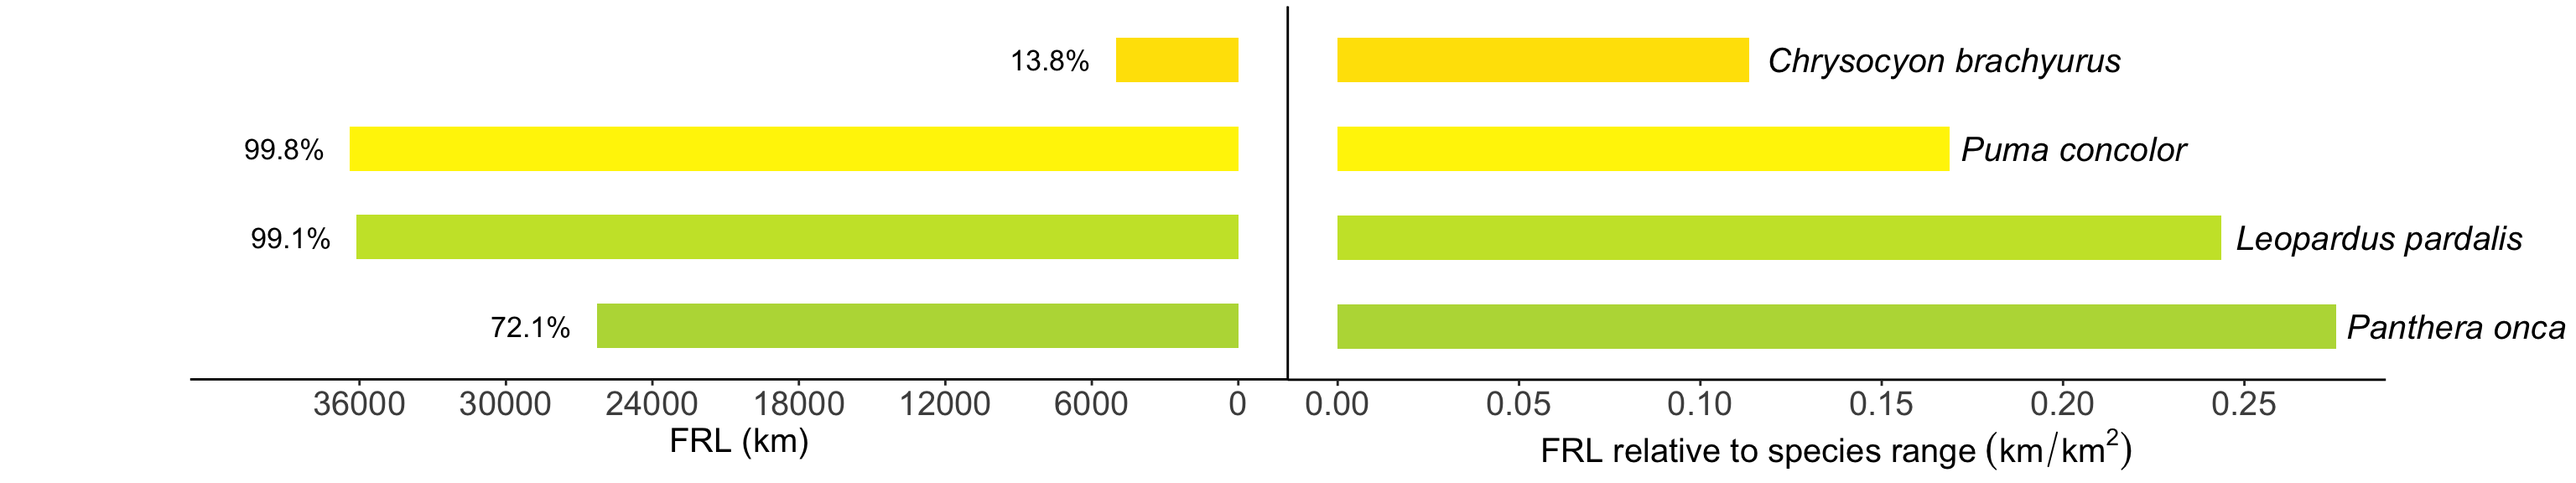
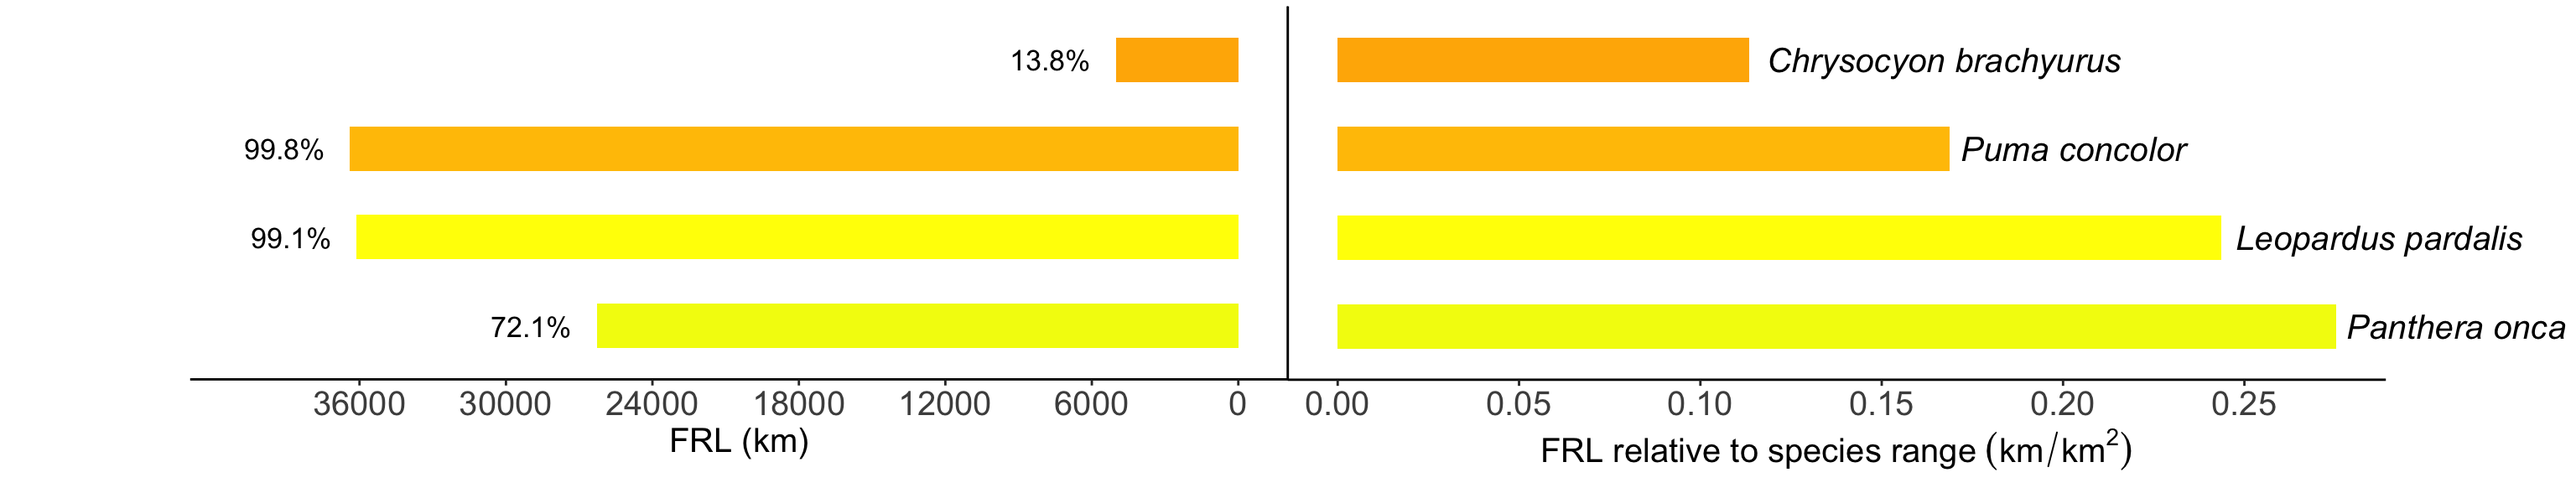
20210829

diff --git a/docs/index.html b/docs/index.html
@@ -392,149 +392,6 @@ div.tocify {
 <div id="sum" class="section level3">
 <h3>sum</h3>
 <p><img src="index_files/figure-html/unnamed-chunk-3-1.png" width="672" /></p>
-<pre><code>##    [1] &quot;#FCFFC9&quot; &quot;#FCFFC8&quot; &quot;#FCFFC8&quot; &quot;#FBFFC7&quot; &quot;#FBFFC7&quot; &quot;#FBFFC7&quot; &quot;#FBFFC6&quot;
-##    [8] &quot;#FBFFC6&quot; &quot;#FBFFC5&quot; &quot;#FBFFC5&quot; &quot;#FBFEC5&quot; &quot;#FBFEC4&quot; &quot;#FAFEC4&quot; &quot;#FAFEC4&quot;
-##   [15] &quot;#FAFDC3&quot; &quot;#FAFDC3&quot; &quot;#FAFDC2&quot; &quot;#FAFDC2&quot; &quot;#FAFCC2&quot; &quot;#FAFCC1&quot; &quot;#FAFCC1&quot;
-##   [22] &quot;#F9FCC0&quot; &quot;#F9FBC0&quot; &quot;#F9FBC0&quot; &quot;#F9FBBF&quot; &quot;#F9FBBF&quot; &quot;#F9FABE&quot; &quot;#F9FABE&quot;
-##   [29] &quot;#F9FABE&quot; &quot;#F9FABD&quot; &quot;#F8FABD&quot; &quot;#F8F9BD&quot; &quot;#F8F9BC&quot; &quot;#F8F9BC&quot; &quot;#F8F9BB&quot;
-##   [36] &quot;#F8F8BB&quot; &quot;#F8F8BB&quot; &quot;#F8F8BA&quot; &quot;#F8F8BA&quot; &quot;#F8F7B9&quot; &quot;#F7F7B9&quot; &quot;#F7F7B9&quot;
-##   [43] &quot;#F7F7B8&quot; &quot;#F7F6B8&quot; &quot;#F7F6B8&quot; &quot;#F7F6B7&quot; &quot;#F7F6B7&quot; &quot;#F7F5B6&quot; &quot;#F7F5B6&quot;
-##   [50] &quot;#F7F5B6&quot; &quot;#F6F5B5&quot; &quot;#F6F4B5&quot; &quot;#F6F4B4&quot; &quot;#F6F4B4&quot; &quot;#F6F4B4&quot; &quot;#F6F3B3&quot;
-##   [57] &quot;#F6F3B3&quot; &quot;#F6F3B2&quot; &quot;#F6F3B2&quot; &quot;#F6F2B2&quot; &quot;#F6F2B1&quot; &quot;#F5F2B1&quot; &quot;#F5F2B1&quot;
-##   [64] &quot;#F5F2B0&quot; &quot;#F5F1B0&quot; &quot;#F5F1AF&quot; &quot;#F5F1AF&quot; &quot;#F5F1AF&quot; &quot;#F5F0AE&quot; &quot;#F5F0AE&quot;
-##   [71] &quot;#F5F0AD&quot; &quot;#F5F0AD&quot; &quot;#F4EFAD&quot; &quot;#F4EFAC&quot; &quot;#F4EFAC&quot; &quot;#F4EFAB&quot; &quot;#F4EEAB&quot;
-##   [78] &quot;#F4EEAB&quot; &quot;#F4EEAA&quot; &quot;#F4EEAA&quot; &quot;#F4EDAA&quot; &quot;#F4EDA9&quot; &quot;#F4EDA9&quot; &quot;#F3EDA8&quot;
-##   [85] &quot;#F3ECA8&quot; &quot;#F3ECA8&quot; &quot;#F3ECA7&quot; &quot;#F3ECA7&quot; &quot;#F3EBA6&quot; &quot;#F3EBA6&quot; &quot;#F3EBA6&quot;
-##   [92] &quot;#F3EBA5&quot; &quot;#F3EAA5&quot; &quot;#F3EAA4&quot; &quot;#F3EAA4&quot; &quot;#F2EAA4&quot; &quot;#F2E9A3&quot; &quot;#F2E9A3&quot;
-##   [99] &quot;#F2E9A2&quot; &quot;#F2E9A2&quot; &quot;#F2E8A2&quot; &quot;#F2E8A1&quot; &quot;#F2E8A1&quot; &quot;#F2E8A1&quot; &quot;#F2E7A0&quot;
-##  [106] &quot;#F2E7A0&quot; &quot;#F2E79F&quot; &quot;#F2E79F&quot; &quot;#F1E69F&quot; &quot;#F1E69E&quot; &quot;#F1E69E&quot; &quot;#F1E69D&quot;
-##  [113] &quot;#F1E59D&quot; &quot;#F1E59D&quot; &quot;#F1E59C&quot; &quot;#F1E59C&quot; &quot;#F1E49B&quot; &quot;#F1E49B&quot; &quot;#F1E49B&quot;
-##  [120] &quot;#F1E39A&quot; &quot;#F0E39A&quot; &quot;#F0E39A&quot; &quot;#F0E399&quot; &quot;#F0E299&quot; &quot;#F0E298&quot; &quot;#F0E298&quot;
-##  [127] &quot;#F0E298&quot; &quot;#F0E197&quot; &quot;#F0E197&quot; &quot;#F0E196&quot; &quot;#F0E196&quot; &quot;#F0E096&quot; &quot;#F0E095&quot;
-##  [134] &quot;#F0E095&quot; &quot;#EFE094&quot; &quot;#EFDF94&quot; &quot;#EFDF94&quot; &quot;#EFDF93&quot; &quot;#EFDF93&quot; &quot;#EFDE92&quot;
-##  [141] &quot;#EFDE92&quot; &quot;#EFDE92&quot; &quot;#EFDE91&quot; &quot;#EFDD91&quot; &quot;#EFDD91&quot; &quot;#EFDD90&quot; &quot;#EFDD90&quot;
-##  [148] &quot;#EFDC8F&quot; &quot;#EEDC8F&quot; &quot;#EEDC8F&quot; &quot;#EEDB8E&quot; &quot;#EEDB8E&quot; &quot;#EEDB8D&quot; &quot;#EEDB8D&quot;
-##  [155] &quot;#EEDA8D&quot; &quot;#EEDA8C&quot; &quot;#EEDA8C&quot; &quot;#EEDA8B&quot; &quot;#EED98B&quot; &quot;#EED98B&quot; &quot;#EED98A&quot;
-##  [162] &quot;#EED98A&quot; &quot;#EDD889&quot; &quot;#EDD889&quot; &quot;#EDD889&quot; &quot;#EDD888&quot; &quot;#EDD788&quot; &quot;#EDD787&quot;
-##  [169] &quot;#EDD787&quot; &quot;#EDD787&quot; &quot;#EDD686&quot; &quot;#EDD686&quot; &quot;#EDD686&quot; &quot;#EDD585&quot; &quot;#EDD585&quot;
-##  [176] &quot;#EDD584&quot; &quot;#EDD584&quot; &quot;#ECD484&quot; &quot;#ECD483&quot; &quot;#ECD483&quot; &quot;#ECD482&quot; &quot;#ECD382&quot;
-##  [183] &quot;#ECD382&quot; &quot;#ECD381&quot; &quot;#ECD381&quot; &quot;#ECD280&quot; &quot;#ECD280&quot; &quot;#ECD280&quot; &quot;#ECD17F&quot;
-##  [190] &quot;#ECD17F&quot; &quot;#ECD17E&quot; &quot;#ECD17E&quot; &quot;#ECD07E&quot; &quot;#EBD07D&quot; &quot;#EBD07D&quot; &quot;#EBD07D&quot;
-##  [197] &quot;#EBCF7C&quot; &quot;#EBCF7C&quot; &quot;#EBCF7B&quot; &quot;#EBCF7B&quot; &quot;#EBCE7B&quot; &quot;#EBCE7A&quot; &quot;#EBCE7A&quot;
-##  [204] &quot;#EBCD79&quot; &quot;#EBCD79&quot; &quot;#EBCD79&quot; &quot;#EBCD78&quot; &quot;#EBCC78&quot; &quot;#EBCC77&quot; &quot;#EACC77&quot;
-##  [211] &quot;#EACC77&quot; &quot;#EACB76&quot; &quot;#EACB76&quot; &quot;#EACB75&quot; &quot;#EACA75&quot; &quot;#EACA75&quot; &quot;#EACA74&quot;
-##  [218] &quot;#EACA74&quot; &quot;#EAC973&quot; &quot;#EAC973&quot; &quot;#EAC973&quot; &quot;#EAC972&quot; &quot;#EAC872&quot; &quot;#EAC872&quot;
-##  [225] &quot;#EAC871&quot; &quot;#E9C871&quot; &quot;#E9C770&quot; &quot;#E9C770&quot; &quot;#E9C770&quot; &quot;#E9C66F&quot; &quot;#E9C66F&quot;
-##  [232] &quot;#E9C66E&quot; &quot;#E9C66E&quot; &quot;#E9C56E&quot; &quot;#E9C56D&quot; &quot;#E9C56D&quot; &quot;#E9C46C&quot; &quot;#E9C46C&quot;
-##  [239] &quot;#E9C46C&quot; &quot;#E9C46B&quot; &quot;#E9C36B&quot; &quot;#E9C36A&quot; &quot;#E8C36A&quot; &quot;#E8C36A&quot; &quot;#E8C269&quot;
-##  [246] &quot;#E8C269&quot; &quot;#E8C268&quot; &quot;#E8C168&quot; &quot;#E8C168&quot; &quot;#E8C167&quot; &quot;#E8C167&quot; &quot;#E8C066&quot;
-##  [253] &quot;#E8C066&quot; &quot;#E8C066&quot; &quot;#E8C065&quot; &quot;#E8BF65&quot; &quot;#E8BF65&quot; &quot;#E8BF64&quot; &quot;#E7BE64&quot;
-##  [260] &quot;#E7BE63&quot; &quot;#E7BE63&quot; &quot;#E7BE63&quot; &quot;#E7BD62&quot; &quot;#E7BD62&quot; &quot;#E7BD61&quot; &quot;#E7BC61&quot;
-##  [267] &quot;#E7BC61&quot; &quot;#E7BC60&quot; &quot;#E7BC60&quot; &quot;#E7BB5F&quot; &quot;#E7BB5F&quot; &quot;#E7BB5F&quot; &quot;#E7BA5E&quot;
-##  [274] &quot;#E7BA5E&quot; &quot;#E7BA5D&quot; &quot;#E6BA5D&quot; &quot;#E6B95D&quot; &quot;#E6B95C&quot; &quot;#E6B95C&quot; &quot;#E6B95B&quot;
-##  [281] &quot;#E6B85B&quot; &quot;#E6B85B&quot; &quot;#E6B85A&quot; &quot;#E6B75A&quot; &quot;#E6B759&quot; &quot;#E6B759&quot; &quot;#E6B759&quot;
-##  [288] &quot;#E6B658&quot; &quot;#E6B658&quot; &quot;#E6B657&quot; &quot;#E6B557&quot; &quot;#E6B557&quot; &quot;#E5B556&quot; &quot;#E5B556&quot;
-##  [295] &quot;#E5B455&quot; &quot;#E5B455&quot; &quot;#E5B455&quot; &quot;#E5B354&quot; &quot;#E5B354&quot; &quot;#E5B353&quot; &quot;#E5B353&quot;
-##  [302] &quot;#E5B253&quot; &quot;#E5B252&quot; &quot;#E5B252&quot; &quot;#E5B151&quot; &quot;#E5B151&quot; &quot;#E5B151&quot; &quot;#E5B150&quot;
-##  [309] &quot;#E4B050&quot; &quot;#E4B04F&quot; &quot;#E4B04F&quot; &quot;#E4AF4F&quot; &quot;#E4AF4E&quot; &quot;#E4AF4E&quot; &quot;#E4AF4D&quot;
-##  [316] &quot;#E4AE4D&quot; &quot;#E4AE4D&quot; &quot;#E4AE4C&quot; &quot;#E4AD4C&quot; &quot;#E4AD4B&quot; &quot;#E4AD4B&quot; &quot;#E4AD4B&quot;
-##  [323] &quot;#E4AC4A&quot; &quot;#E4AC4A&quot; &quot;#E3AC49&quot; &quot;#E3AB49&quot; &quot;#E3AB49&quot; &quot;#E3AB48&quot; &quot;#E3AA48&quot;
-##  [330] &quot;#E3AA47&quot; &quot;#E3AA47&quot; &quot;#E3AA47&quot; &quot;#E3A946&quot; &quot;#E3A946&quot; &quot;#E3A945&quot; &quot;#E3A845&quot;
-##  [337] &quot;#E3A845&quot; &quot;#E3A844&quot; &quot;#E3A844&quot; &quot;#E3A743&quot; &quot;#E2A743&quot; &quot;#E2A743&quot; &quot;#E2A642&quot;
-##  [344] &quot;#E2A642&quot; &quot;#E2A641&quot; &quot;#E2A641&quot; &quot;#E2A540&quot; &quot;#E2A540&quot; &quot;#E2A540&quot; &quot;#E2A43F&quot;
-##  [351] &quot;#E2A43F&quot; &quot;#E2A43E&quot; &quot;#E2A33E&quot; &quot;#E2A33E&quot; &quot;#E2A33D&quot; &quot;#E2A33D&quot; &quot;#E1A23C&quot;
-##  [358] &quot;#E1A23C&quot; &quot;#E1A23C&quot; &quot;#E1A13B&quot; &quot;#E1A13B&quot; &quot;#E1A13A&quot; &quot;#E1A03A&quot; &quot;#E1A039&quot;
-##  [365] &quot;#E1A039&quot; &quot;#E1A039&quot; &quot;#E19F38&quot; &quot;#E19F38&quot; &quot;#E19F37&quot; &quot;#E19E37&quot; &quot;#E09E36&quot;
-##  [372] &quot;#E09E36&quot; &quot;#E09D36&quot; &quot;#E09D35&quot; &quot;#E09D35&quot; &quot;#E09D34&quot; &quot;#E09C34&quot; &quot;#E09C33&quot;
-##  [379] &quot;#E09C33&quot; &quot;#E09B33&quot; &quot;#E09B32&quot; &quot;#E09B32&quot; &quot;#E09A31&quot; &quot;#E09A31&quot; &quot;#E09A30&quot;
-##  [386] &quot;#DF9A30&quot; &quot;#DF9930&quot; &quot;#DF992F&quot; &quot;#DF992F&quot; &quot;#DF982E&quot; &quot;#DF982E&quot; &quot;#DF982D&quot;
-##  [393] &quot;#DF972D&quot; &quot;#DF972D&quot; &quot;#DF972C&quot; &quot;#DF972C&quot; &quot;#DF962B&quot; &quot;#DF962B&quot; &quot;#DF962A&quot;
-##  [400] &quot;#DE952A&quot; &quot;#DE9529&quot; &quot;#DE9529&quot; &quot;#DE9428&quot; &quot;#DE9428&quot; &quot;#DE9428&quot; &quot;#DE9327&quot;
-##  [407] &quot;#DE9327&quot; &quot;#DE9326&quot; &quot;#DE9326&quot; &quot;#DE9225&quot; &quot;#DE9225&quot; &quot;#DE9224&quot; &quot;#DE9124&quot;
-##  [414] &quot;#DD9123&quot; &quot;#DD9123&quot; &quot;#DD9022&quot; &quot;#DD9022&quot; &quot;#DD9021&quot; &quot;#DD8F21&quot; &quot;#DD8F20&quot;
-##  [421] &quot;#DD8F20&quot; &quot;#DD8F1F&quot; &quot;#DD8E1F&quot; &quot;#DD8E1E&quot; &quot;#DD8E1E&quot; &quot;#DD8D1D&quot; &quot;#DC8D1D&quot;
-##  [428] &quot;#DC8D1C&quot; &quot;#DC8C1C&quot; &quot;#DC8C1B&quot; &quot;#DC8C1B&quot; &quot;#DC8B1A&quot; &quot;#DC8B1A&quot; &quot;#DC8B19&quot;
-##  [435] &quot;#DC8A18&quot; &quot;#DC8A18&quot; &quot;#DC8A17&quot; &quot;#DC8917&quot; &quot;#DC8916&quot; &quot;#DB8916&quot; &quot;#DB8915&quot;
-##  [442] &quot;#DB8814&quot; &quot;#DB8814&quot; &quot;#DB8813&quot; &quot;#DB8713&quot; &quot;#DB8712&quot; &quot;#DB8711&quot; &quot;#DB8611&quot;
-##  [449] &quot;#DB8610&quot; &quot;#DB860F&quot; &quot;#DB850E&quot; &quot;#DA850E&quot; &quot;#DA850D&quot; &quot;#DA840C&quot; &quot;#DA840B&quot;
-##  [456] &quot;#DA840B&quot; &quot;#DA830A&quot; &quot;#DA8309&quot; &quot;#DA8308&quot; &quot;#DA8207&quot; &quot;#DA8206&quot; &quot;#DA8206&quot;
-##  [463] &quot;#DA8205&quot; &quot;#DA8104&quot; &quot;#D98103&quot; &quot;#D98102&quot; &quot;#D98002&quot; &quot;#D98001&quot; &quot;#D98000&quot;
-##  [470] &quot;#D97F00&quot; &quot;#D97F00&quot; &quot;#D97F00&quot; &quot;#D97E00&quot; &quot;#D97E00&quot; &quot;#D97E00&quot; &quot;#D87D00&quot;
-##  [477] &quot;#D87D00&quot; &quot;#D87D00&quot; &quot;#D87C00&quot; &quot;#D87C00&quot; &quot;#D87C00&quot; &quot;#D87B00&quot; &quot;#D87B00&quot;
-##  [484] &quot;#D87B00&quot; &quot;#D87A00&quot; &quot;#D87A00&quot; &quot;#D87A00&quot; &quot;#D77900&quot; &quot;#D77900&quot; &quot;#D77900&quot;
-##  [491] &quot;#D77800&quot; &quot;#D77800&quot; &quot;#D77800&quot; &quot;#D77700&quot; &quot;#D77700&quot; &quot;#D77700&quot; &quot;#D77600&quot;
-##  [498] &quot;#D77600&quot; &quot;#D67600&quot; &quot;#D67500&quot; &quot;#D67500&quot; &quot;#D67500&quot; &quot;#D67400&quot; &quot;#D67400&quot;
-##  [505] &quot;#D67400&quot; &quot;#D67300&quot; &quot;#D57300&quot; &quot;#D57300&quot; &quot;#D57300&quot; &quot;#D57200&quot; &quot;#D47200&quot;
-##  [512] &quot;#D47200&quot; &quot;#D47200&quot; &quot;#D47100&quot; &quot;#D47100&quot; &quot;#D37100&quot; &quot;#D37000&quot; &quot;#D37002&quot;
-##  [519] &quot;#D37003&quot; &quot;#D27005&quot; &quot;#D26F06&quot; &quot;#D26F08&quot; &quot;#D26F09&quot; &quot;#D16F0B&quot; &quot;#D16E0C&quot;
-##  [526] &quot;#D16E0E&quot; &quot;#D16E0F&quot; &quot;#D06D10&quot; &quot;#D06D11&quot; &quot;#D06D12&quot; &quot;#D06D13&quot; &quot;#D06C14&quot;
-##  [533] &quot;#CF6C15&quot; &quot;#CF6C16&quot; &quot;#CF6C16&quot; &quot;#CF6B17&quot; &quot;#CE6B18&quot; &quot;#CE6B19&quot; &quot;#CE6B19&quot;
-##  [540] &quot;#CE6A1A&quot; &quot;#CD6A1B&quot; &quot;#CD6A1B&quot; &quot;#CD691C&quot; &quot;#CD691D&quot; &quot;#CC691D&quot; &quot;#CC691E&quot;
-##  [547] &quot;#CC681E&quot; &quot;#CC681F&quot; &quot;#CB6820&quot; &quot;#CB6820&quot; &quot;#CB6721&quot; &quot;#CB6721&quot; &quot;#CA6722&quot;
-##  [554] &quot;#CA6722&quot; &quot;#CA6623&quot; &quot;#CA6623&quot; &quot;#C96624&quot; &quot;#C96624&quot; &quot;#C96524&quot; &quot;#C96525&quot;
-##  [561] &quot;#C86525&quot; &quot;#C86426&quot; &quot;#C86426&quot; &quot;#C86427&quot; &quot;#C76427&quot; &quot;#C76327&quot; &quot;#C76328&quot;
-##  [568] &quot;#C76328&quot; &quot;#C66329&quot; &quot;#C66229&quot; &quot;#C66229&quot; &quot;#C6622A&quot; &quot;#C5622A&quot; &quot;#C5612A&quot;
-##  [575] &quot;#C5612B&quot; &quot;#C5612B&quot; &quot;#C4612B&quot; &quot;#C4602C&quot; &quot;#C4602C&quot; &quot;#C4602C&quot; &quot;#C35F2D&quot;
-##  [582] &quot;#C35F2D&quot; &quot;#C35F2D&quot; &quot;#C35F2E&quot; &quot;#C25E2E&quot; &quot;#C25E2E&quot; &quot;#C25E2F&quot; &quot;#C15E2F&quot;
-##  [589] &quot;#C15D2F&quot; &quot;#C15D2F&quot; &quot;#C15D30&quot; &quot;#C05D30&quot; &quot;#C05C30&quot; &quot;#C05C31&quot; &quot;#C05C31&quot;
-##  [596] &quot;#BF5C31&quot; &quot;#BF5B31&quot; &quot;#BF5B32&quot; &quot;#BF5B32&quot; &quot;#BE5B32&quot; &quot;#BE5A32&quot; &quot;#BE5A33&quot;
-##  [603] &quot;#BD5A33&quot; &quot;#BD5A33&quot; &quot;#BD5933&quot; &quot;#BD5933&quot; &quot;#BC5934&quot; &quot;#BC5934&quot; &quot;#BC5834&quot;
-##  [610] &quot;#BC5834&quot; &quot;#BB5835&quot; &quot;#BB5835&quot; &quot;#BB5735&quot; &quot;#BA5735&quot; &quot;#BA5735&quot; &quot;#BA5736&quot;
-##  [617] &quot;#BA5636&quot; &quot;#B95636&quot; &quot;#B95636&quot; &quot;#B95536&quot; &quot;#B95537&quot; &quot;#B85537&quot; &quot;#B85537&quot;
-##  [624] &quot;#B85437&quot; &quot;#B75437&quot; &quot;#B75437&quot; &quot;#B75438&quot; &quot;#B75338&quot; &quot;#B65338&quot; &quot;#B65338&quot;
-##  [631] &quot;#B65338&quot; &quot;#B55238&quot; &quot;#B55239&quot; &quot;#B55239&quot; &quot;#B55239&quot; &quot;#B45139&quot; &quot;#B45139&quot;
-##  [638] &quot;#B45139&quot; &quot;#B3513A&quot; &quot;#B3503A&quot; &quot;#B3503A&quot; &quot;#B3503A&quot; &quot;#B2503A&quot; &quot;#B24F3A&quot;
-##  [645] &quot;#B24F3A&quot; &quot;#B14F3B&quot; &quot;#B14F3B&quot; &quot;#B14E3B&quot; &quot;#B14E3B&quot; &quot;#B04E3B&quot; &quot;#B04E3B&quot;
-##  [652] &quot;#B04E3B&quot; &quot;#AF4D3B&quot; &quot;#AF4D3C&quot; &quot;#AF4D3C&quot; &quot;#AF4D3C&quot; &quot;#AE4C3C&quot; &quot;#AE4C3C&quot;
-##  [659] &quot;#AE4C3C&quot; &quot;#AD4C3C&quot; &quot;#AD4B3C&quot; &quot;#AD4B3D&quot; &quot;#AC4B3D&quot; &quot;#AC4B3D&quot; &quot;#AC4A3D&quot;
-##  [666] &quot;#AC4A3D&quot; &quot;#AB4A3D&quot; &quot;#AB4A3D&quot; &quot;#AB493D&quot; &quot;#AA493D&quot; &quot;#AA493D&quot; &quot;#AA493E&quot;
-##  [673] &quot;#A9483E&quot; &quot;#A9483E&quot; &quot;#A9483E&quot; &quot;#A9483E&quot; &quot;#A8473E&quot; &quot;#A8473E&quot; &quot;#A8473E&quot;
-##  [680] &quot;#A7473E&quot; &quot;#A7463E&quot; &quot;#A7463E&quot; &quot;#A6463E&quot; &quot;#A6463E&quot; &quot;#A6453F&quot; &quot;#A6453F&quot;
-##  [687] &quot;#A5453F&quot; &quot;#A5453F&quot; &quot;#A5453F&quot; &quot;#A4443F&quot; &quot;#A4443F&quot; &quot;#A4443F&quot; &quot;#A3443F&quot;
-##  [694] &quot;#A3433F&quot; &quot;#A3433F&quot; &quot;#A2433F&quot; &quot;#A2433F&quot; &quot;#A2423F&quot; &quot;#A2423F&quot; &quot;#A1423F&quot;
-##  [701] &quot;#A14240&quot; &quot;#A14140&quot; &quot;#A04140&quot; &quot;#A04140&quot; &quot;#A04140&quot; &quot;#9F4040&quot; &quot;#9F4040&quot;
-##  [708] &quot;#9F4040&quot; &quot;#9E4040&quot; &quot;#9E4040&quot; &quot;#9E3F40&quot; &quot;#9D3F40&quot; &quot;#9D3F40&quot; &quot;#9D3F40&quot;
-##  [715] &quot;#9C3E40&quot; &quot;#9C3E40&quot; &quot;#9C3E40&quot; &quot;#9C3E40&quot; &quot;#9B3D40&quot; &quot;#9B3D40&quot; &quot;#9B3D40&quot;
-##  [722] &quot;#9A3D40&quot; &quot;#9A3C40&quot; &quot;#9A3C40&quot; &quot;#993C40&quot; &quot;#993C40&quot; &quot;#993C40&quot; &quot;#983B40&quot;
-##  [729] &quot;#983B40&quot; &quot;#983B40&quot; &quot;#973B40&quot; &quot;#973A40&quot; &quot;#973A40&quot; &quot;#963A40&quot; &quot;#963A41&quot;
-##  [736] &quot;#963941&quot; &quot;#953941&quot; &quot;#953941&quot; &quot;#953941&quot; &quot;#943941&quot; &quot;#943841&quot; &quot;#943841&quot;
-##  [743] &quot;#933841&quot; &quot;#933841&quot; &quot;#933741&quot; &quot;#923741&quot; &quot;#923741&quot; &quot;#923741&quot; &quot;#913741&quot;
-##  [750] &quot;#913640&quot; &quot;#913640&quot; &quot;#903640&quot; &quot;#903640&quot; &quot;#903540&quot; &quot;#8F3540&quot; &quot;#8F3540&quot;
-##  [757] &quot;#8F3540&quot; &quot;#8E3440&quot; &quot;#8E3440&quot; &quot;#8E3440&quot; &quot;#8D3440&quot; &quot;#8D3440&quot; &quot;#8D3340&quot;
-##  [764] &quot;#8C3340&quot; &quot;#8C3340&quot; &quot;#8C3340&quot; &quot;#8B3240&quot; &quot;#8B3240&quot; &quot;#8B3240&quot; &quot;#8A3240&quot;
-##  [771] &quot;#8A3240&quot; &quot;#8A3140&quot; &quot;#893140&quot; &quot;#893140&quot; &quot;#893140&quot; &quot;#883040&quot; &quot;#883040&quot;
-##  [778] &quot;#873040&quot; &quot;#873040&quot; &quot;#873040&quot; &quot;#862F40&quot; &quot;#862F40&quot; &quot;#862F40&quot; &quot;#852F40&quot;
-##  [785] &quot;#852E3F&quot; &quot;#852E3F&quot; &quot;#842E3F&quot; &quot;#842E3F&quot; &quot;#842E3F&quot; &quot;#832D3F&quot; &quot;#832D3F&quot;
-##  [792] &quot;#832D3F&quot; &quot;#822D3F&quot; &quot;#822D3F&quot; &quot;#822C3F&quot; &quot;#812C3F&quot; &quot;#812C3F&quot; &quot;#802C3F&quot;
-##  [799] &quot;#802B3F&quot; &quot;#802B3F&quot; &quot;#7F2B3F&quot; &quot;#7F2B3F&quot; &quot;#7F2B3E&quot; &quot;#7E2A3E&quot; &quot;#7E2A3E&quot;
-##  [806] &quot;#7E2A3E&quot; &quot;#7D2A3E&quot; &quot;#7D2A3E&quot; &quot;#7C293E&quot; &quot;#7C293E&quot; &quot;#7C293E&quot; &quot;#7B293E&quot;
-##  [813] &quot;#7B283E&quot; &quot;#7B283E&quot; &quot;#7A283E&quot; &quot;#7A283E&quot; &quot;#7A283D&quot; &quot;#79273D&quot; &quot;#79273D&quot;
-##  [820] &quot;#78273D&quot; &quot;#78273D&quot; &quot;#78273D&quot; &quot;#77263D&quot; &quot;#77263D&quot; &quot;#77263D&quot; &quot;#76263D&quot;
-##  [827] &quot;#76263D&quot; &quot;#76253C&quot; &quot;#75253C&quot; &quot;#75253C&quot; &quot;#74253C&quot; &quot;#74243C&quot; &quot;#74243C&quot;
-##  [834] &quot;#73243C&quot; &quot;#73243C&quot; &quot;#73243C&quot; &quot;#72233C&quot; &quot;#72233B&quot; &quot;#71233B&quot; &quot;#71233B&quot;
-##  [841] &quot;#71233B&quot; &quot;#70223B&quot; &quot;#70223B&quot; &quot;#70223B&quot; &quot;#6F223B&quot; &quot;#6F223B&quot; &quot;#6E213B&quot;
-##  [848] &quot;#6E213A&quot; &quot;#6E213A&quot; &quot;#6D213A&quot; &quot;#6D213A&quot; &quot;#6C203A&quot; &quot;#6C203A&quot; &quot;#6C203A&quot;
-##  [855] &quot;#6B203A&quot; &quot;#6B2039&quot; &quot;#6B1F39&quot; &quot;#6A1F39&quot; &quot;#6A1F39&quot; &quot;#691F39&quot; &quot;#691F39&quot;
-##  [862] &quot;#691E39&quot; &quot;#681E39&quot; &quot;#681E38&quot; &quot;#671E38&quot; &quot;#671E38&quot; &quot;#671D38&quot; &quot;#661D38&quot;
-##  [869] &quot;#661D38&quot; &quot;#651D38&quot; &quot;#651D38&quot; &quot;#651C37&quot; &quot;#641C37&quot; &quot;#641C37&quot; &quot;#631C37&quot;
-##  [876] &quot;#631C37&quot; &quot;#631B37&quot; &quot;#621B37&quot; &quot;#621B36&quot; &quot;#611B36&quot; &quot;#611B36&quot; &quot;#611B36&quot;
-##  [883] &quot;#601A36&quot; &quot;#601A36&quot; &quot;#5F1A35&quot; &quot;#5F1A35&quot; &quot;#5F1A35&quot; &quot;#5E1935&quot; &quot;#5E1935&quot;
-##  [890] &quot;#5D1935&quot; &quot;#5D1935&quot; &quot;#5D1934&quot; &quot;#5C1834&quot; &quot;#5C1834&quot; &quot;#5B1834&quot; &quot;#5B1834&quot;
-##  [897] &quot;#5A1834&quot; &quot;#5A1733&quot; &quot;#5A1733&quot; &quot;#591733&quot; &quot;#591733&quot; &quot;#581733&quot; &quot;#581732&quot;
-##  [904] &quot;#581632&quot; &quot;#571632&quot; &quot;#571632&quot; &quot;#561632&quot; &quot;#561632&quot; &quot;#551531&quot; &quot;#551531&quot;
-##  [911] &quot;#551531&quot; &quot;#541531&quot; &quot;#541531&quot; &quot;#531530&quot; &quot;#531430&quot; &quot;#521430&quot; &quot;#521430&quot;
-##  [918] &quot;#521430&quot; &quot;#511430&quot; &quot;#51142F&quot; &quot;#50132F&quot; &quot;#50132F&quot; &quot;#4F132F&quot; &quot;#4F132F&quot;
-##  [925] &quot;#4E132E&quot; &quot;#4E122E&quot; &quot;#4E122E&quot; &quot;#4D122E&quot; &quot;#4D122D&quot; &quot;#4C122D&quot; &quot;#4C122D&quot;
-##  [932] &quot;#4B112D&quot; &quot;#4B112D&quot; &quot;#4A112C&quot; &quot;#4A112C&quot; &quot;#4A112C&quot; &quot;#49112C&quot; &quot;#49102C&quot;
-##  [939] &quot;#48102B&quot; &quot;#48102B&quot; &quot;#47102B&quot; &quot;#47102B&quot; &quot;#46102A&quot; &quot;#460F2A&quot; &quot;#450F2A&quot;
-##  [946] &quot;#450F2A&quot; &quot;#440F29&quot; &quot;#440F29&quot; &quot;#430F29&quot; &quot;#430F29&quot; &quot;#420E28&quot; &quot;#420E28&quot;
-##  [953] &quot;#410E28&quot; &quot;#410E28&quot; &quot;#400E27&quot; &quot;#400E27&quot; &quot;#3F0E27&quot; &quot;#3F0D27&quot; &quot;#3E0D26&quot;
-##  [960] &quot;#3E0D26&quot; &quot;#3D0D26&quot; &quot;#3D0D26&quot; &quot;#3C0D25&quot; &quot;#3C0D25&quot; &quot;#3B0C25&quot; &quot;#3B0C24&quot;
-##  [967] &quot;#3A0C24&quot; &quot;#3A0C24&quot; &quot;#390C24&quot; &quot;#390C23&quot; &quot;#380C23&quot; &quot;#370C23&quot; &quot;#370B22&quot;
-##  [974] &quot;#360B22&quot; &quot;#360B22&quot; &quot;#350B21&quot; &quot;#350B21&quot; &quot;#340B21&quot; &quot;#330B20&quot; &quot;#330B20&quot;
-##  [981] &quot;#320B20&quot; &quot;#310B1F&quot; &quot;#310A1F&quot; &quot;#300A1F&quot; &quot;#300A1E&quot; &quot;#2F0A1E&quot; &quot;#2E0A1D&quot;
-##  [988] &quot;#2D0A1D&quot; &quot;#2D0A1D&quot; &quot;#2C0A1C&quot; &quot;#2B0A1C&quot; &quot;#2A0A1B&quot; &quot;#290A1B&quot; &quot;#280A1A&quot;
-##  [995] &quot;#270A1A&quot; &quot;#260A19&quot; &quot;#250A18&quot; &quot;#240A18&quot; &quot;#220A17&quot; &quot;#200A16&quot; &quot;#1D0B14&quot;</code></pre>
 </div>
 <div id="min" class="section level3">
 <h3>min</h3>
